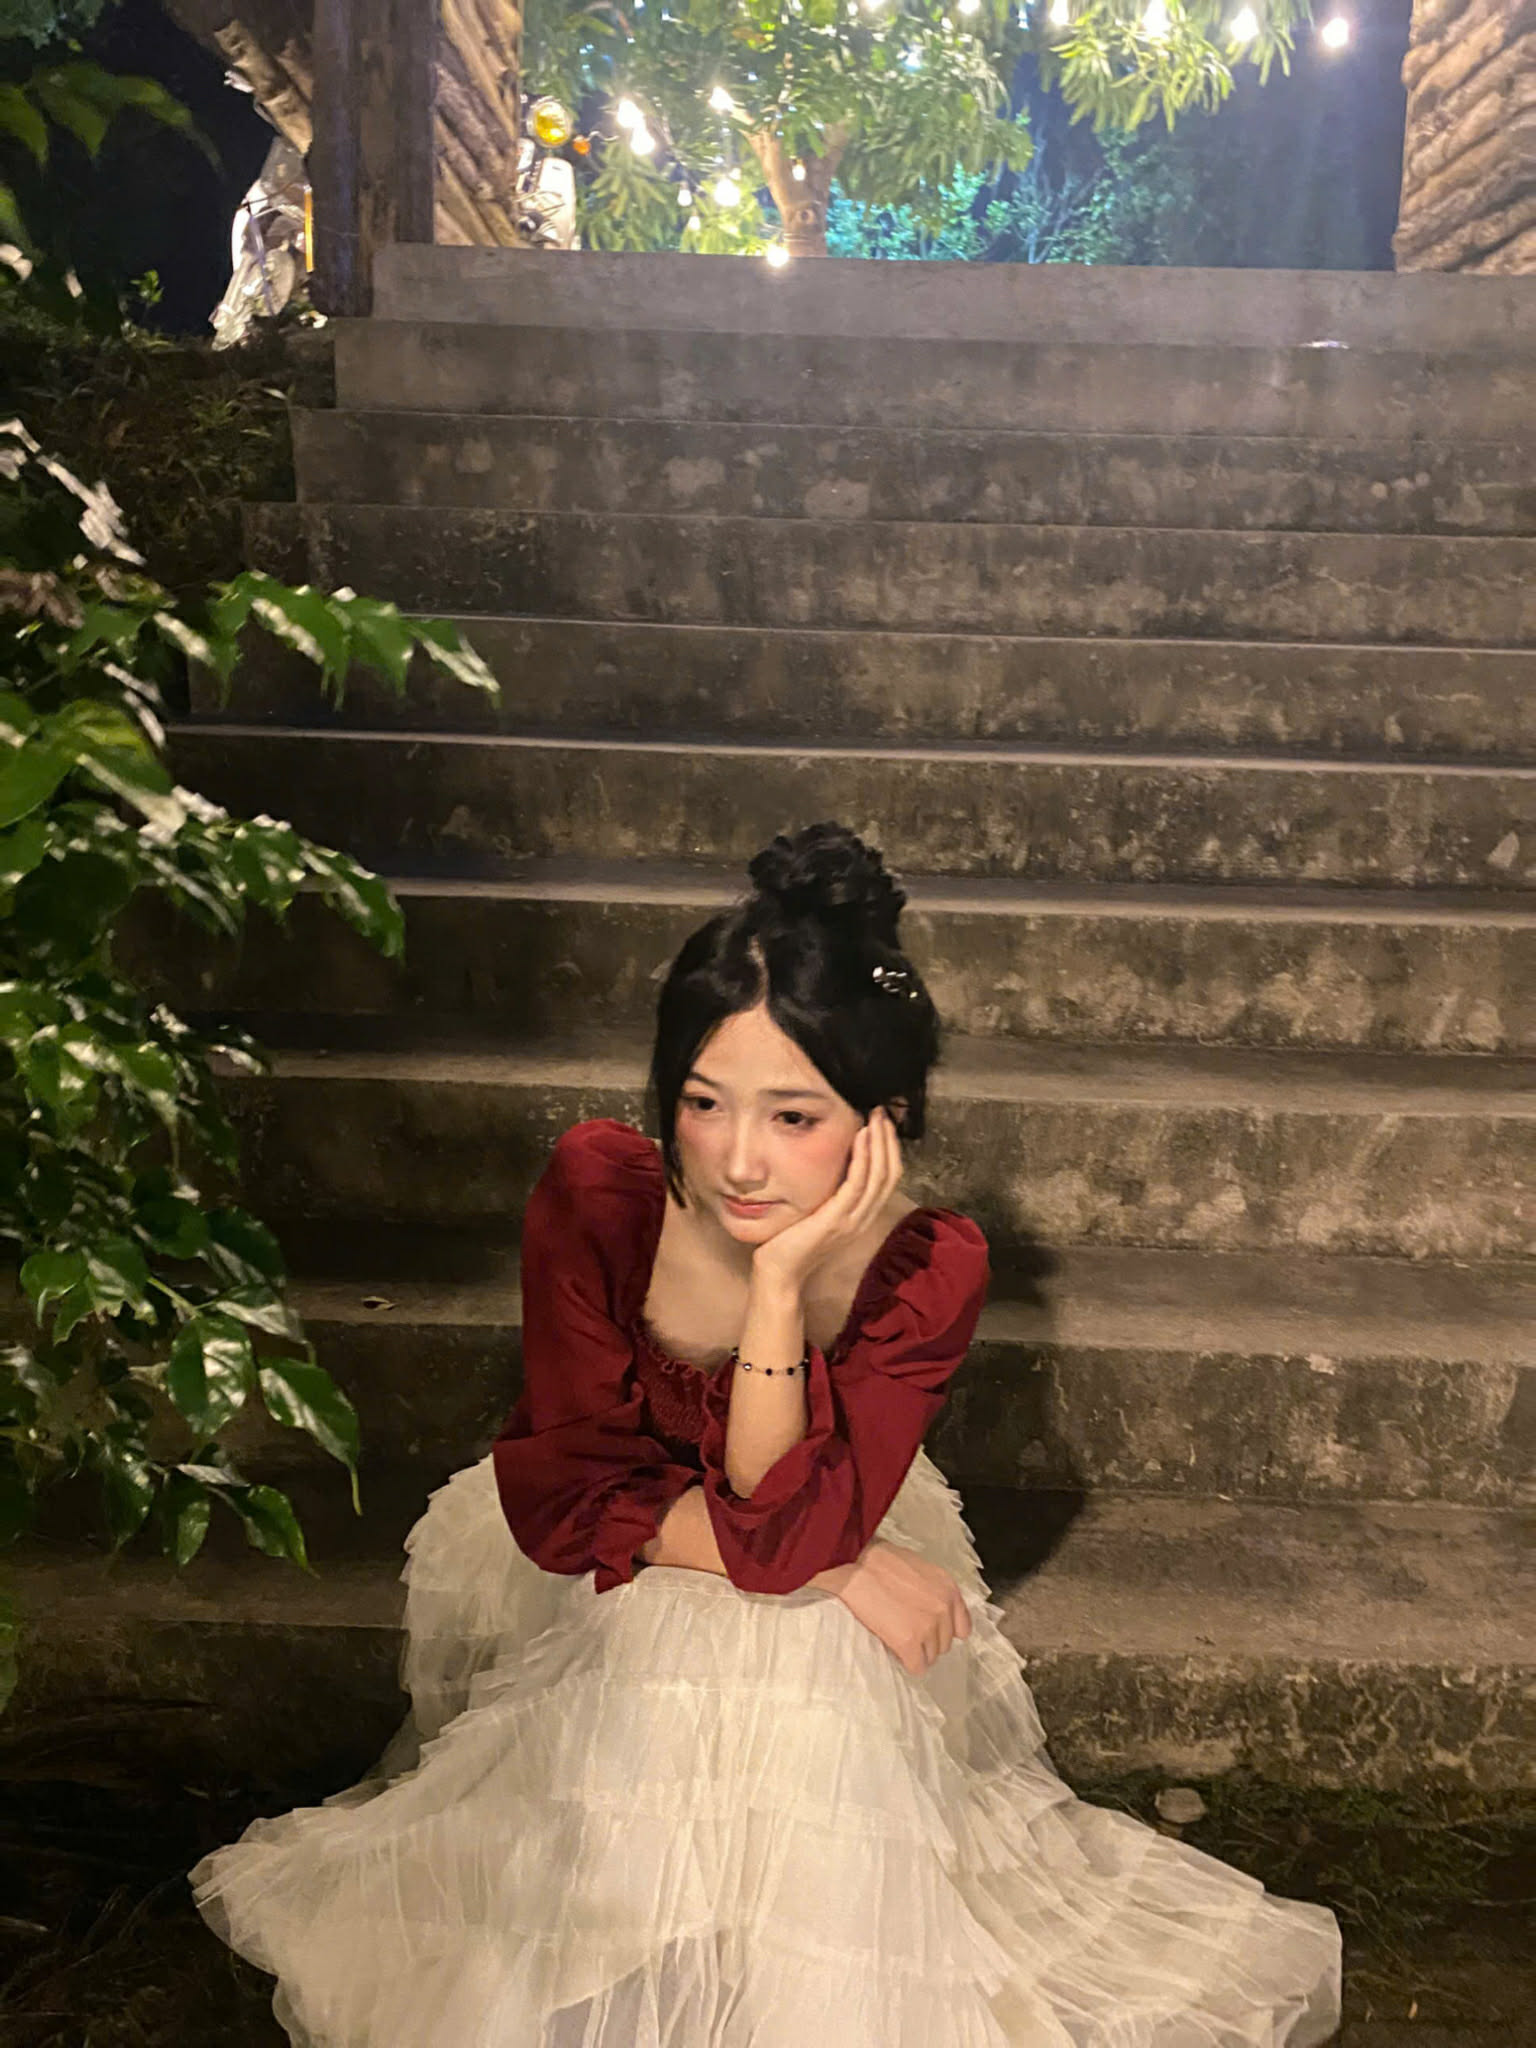
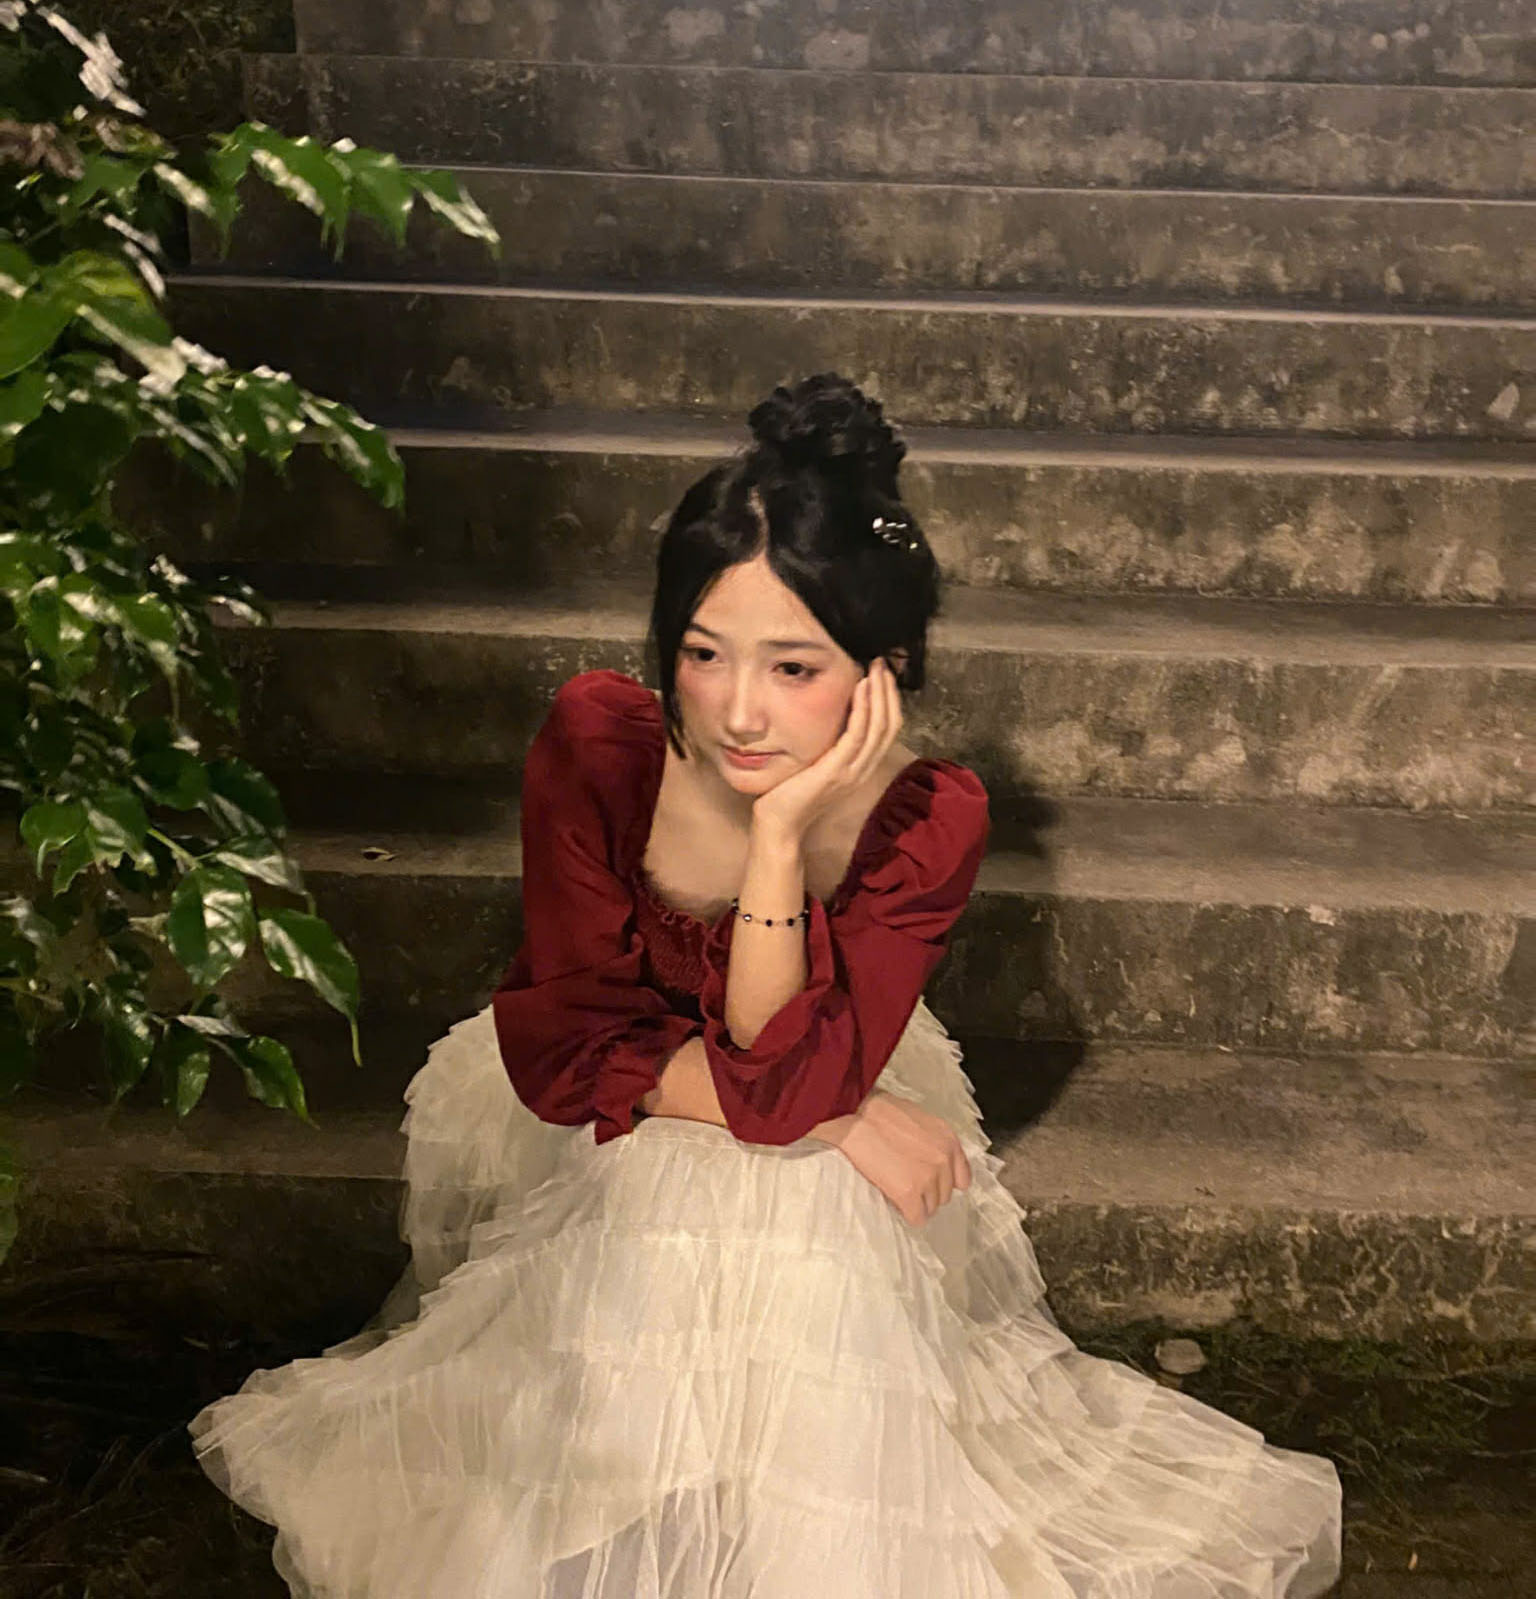
edit img

diff --git a/tiny-heart-master/tiny-heart-master/birthday-mobile/css/memories.css b/tiny-heart-master/tiny-heart-master/birthday-mobile/css/memories.css
@@ -1334,7 +1334,7 @@
 	.ly-img21{
 		position: absolute;
 		width: 100%;
-		bottom: -72px;
+		bottom: 0;
 	}
 	
 	/* 盒子 */
@@ -1537,7 +1537,7 @@
 	.ly-img21{
 		position: absolute;
 		width: 100%;
-		bottom: -72px;
+		bottom: -0;
 	}
 	
 	/* 盒子 */
